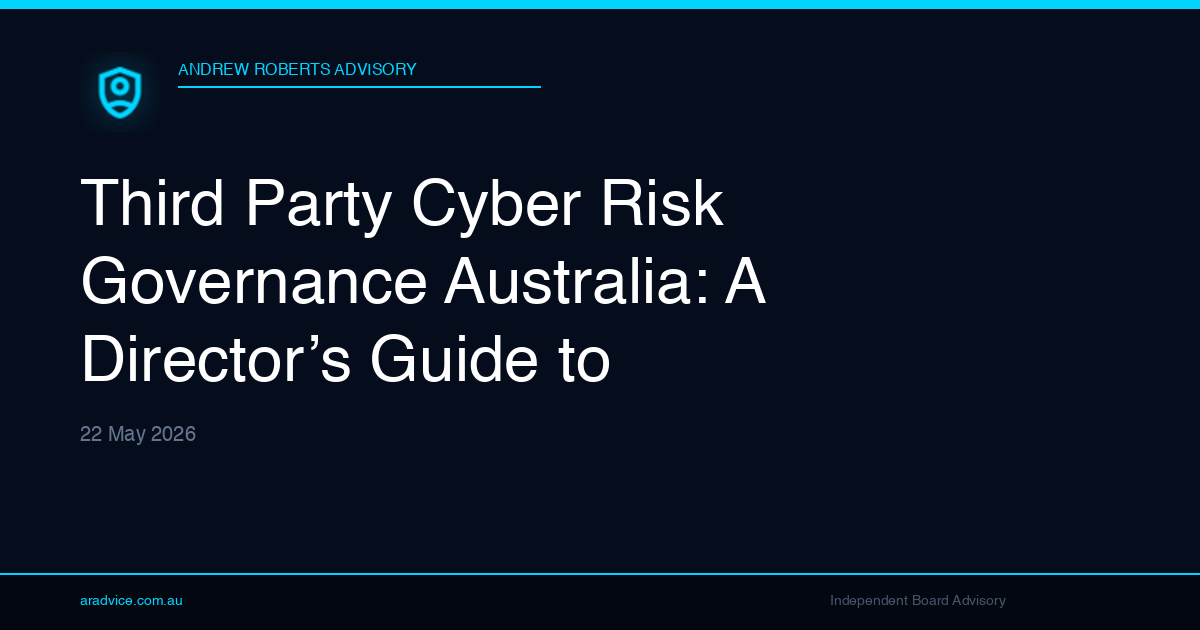
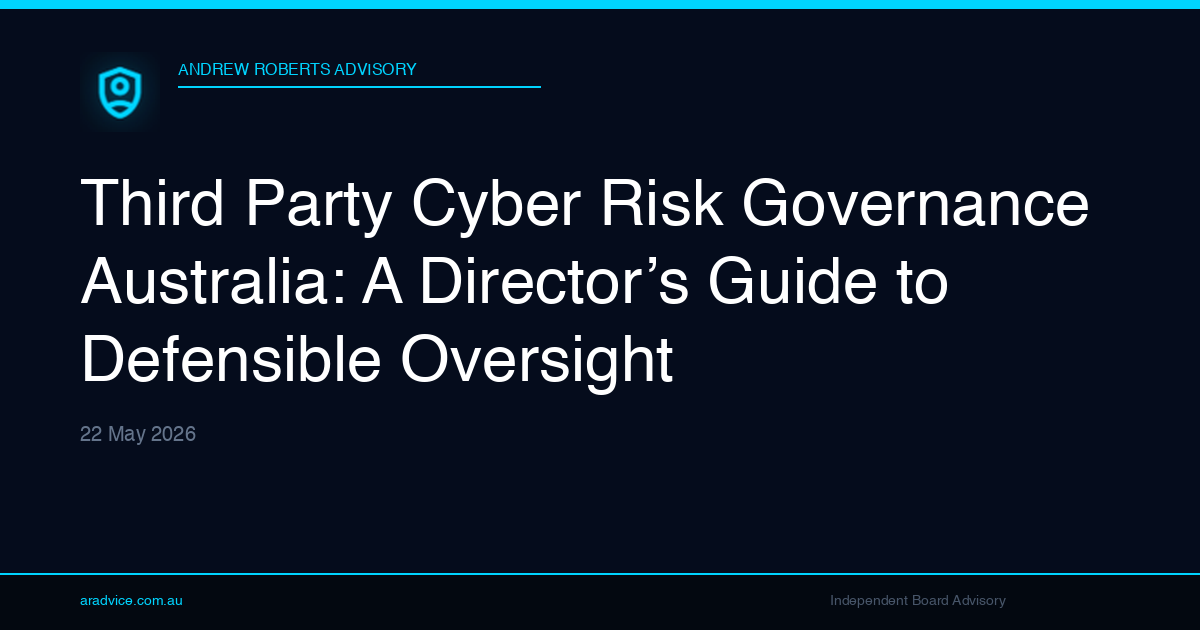
Widen og:image title wrap from 26 to 34 chars to prevent truncation

Changed region(s): [[0.0617, 0.3921, 0.8017, 0.4825], [0.0925, 0.5127, 0.555, 0.6333], [0.6167, 0.2714, 0.925, 0.3619]]

diff --git a/scripts/sync_blog.py b/scripts/sync_blog.py
@@ -780,7 +780,7 @@ def generate_og_image(item: FeedItem, post_slug: str, post_id: str = "000") -> s
     draw.rectangle([(178, 86), (540, 87)], fill=(0, 212, 255, 60))
 
     # Article title — max 3 lines
-    wrapped = textwrap.wrap(item.title, width=26)[:3]
+    wrapped = textwrap.wrap(item.title, width=34)[:3]
     ty = 175
     for line in wrapped:
         draw.text((80, ty), line, font=load_font(64), fill=WHITE)

diff --git a/post-map.md b/post-map.md
@@ -1,6 +1,6 @@
 # Post Registry and Asset Map
 
-Generated: 28 May 2026 20:05 UTC
+Generated: 28 May 2026 20:07 UTC
 
 Total posts: 13
 
